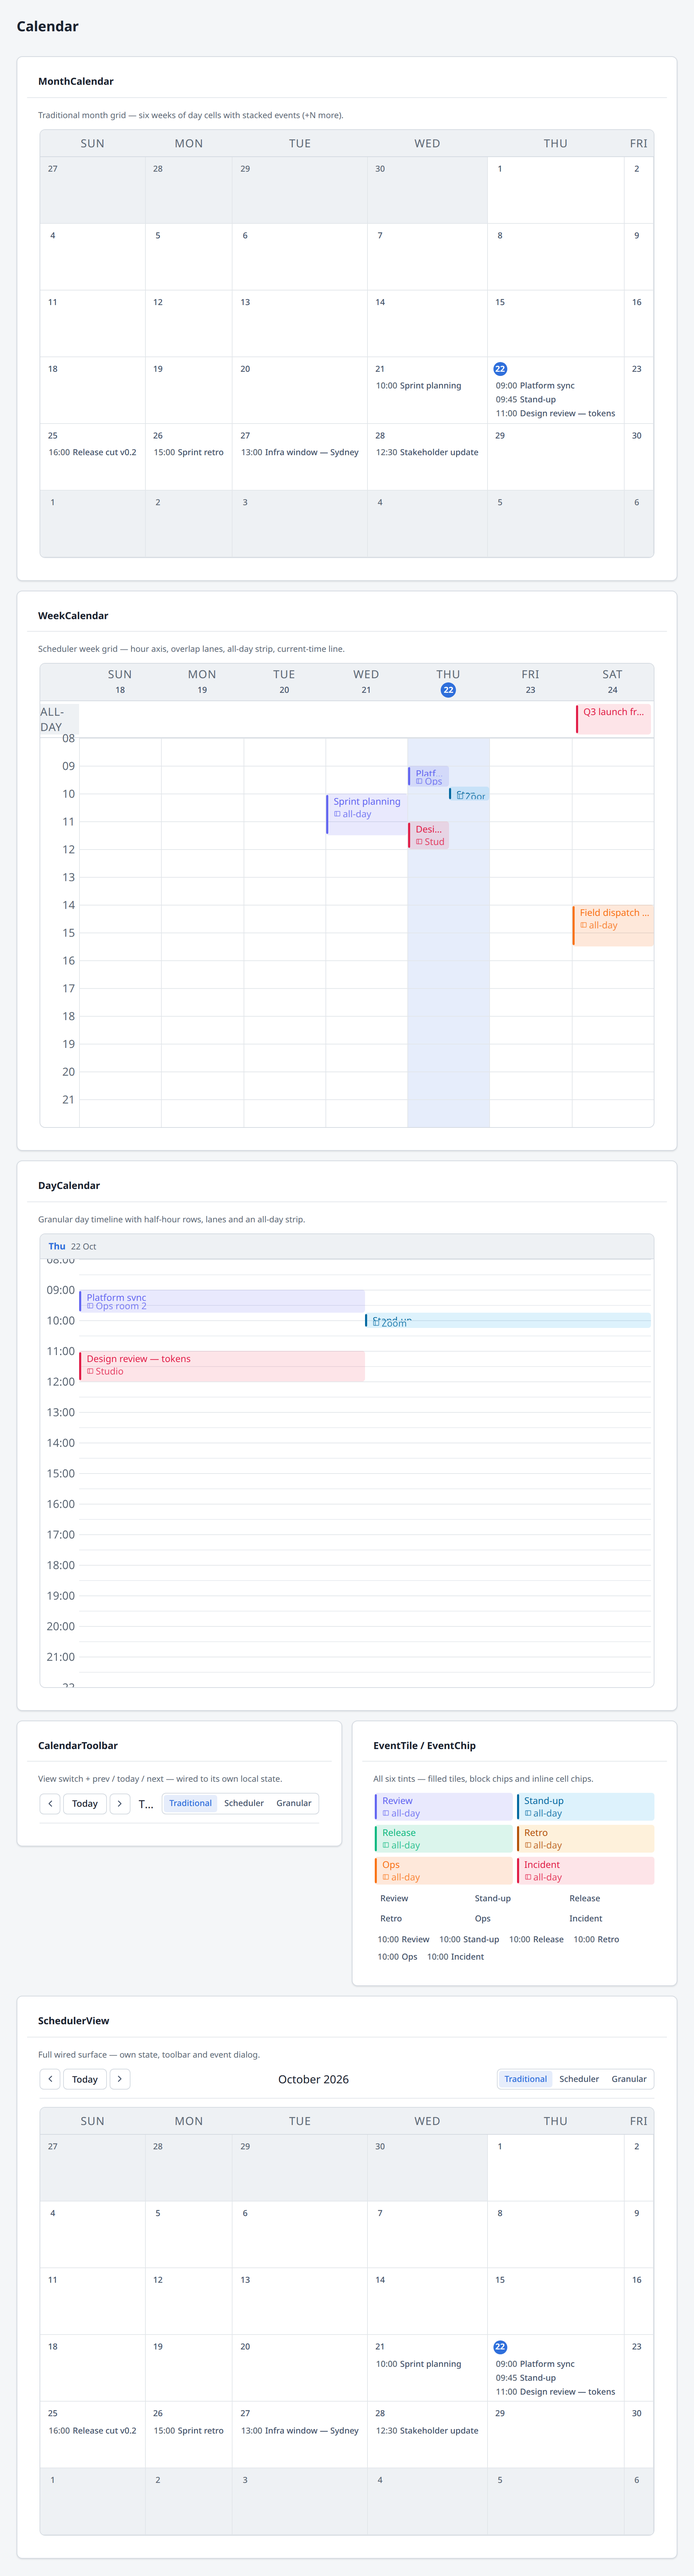
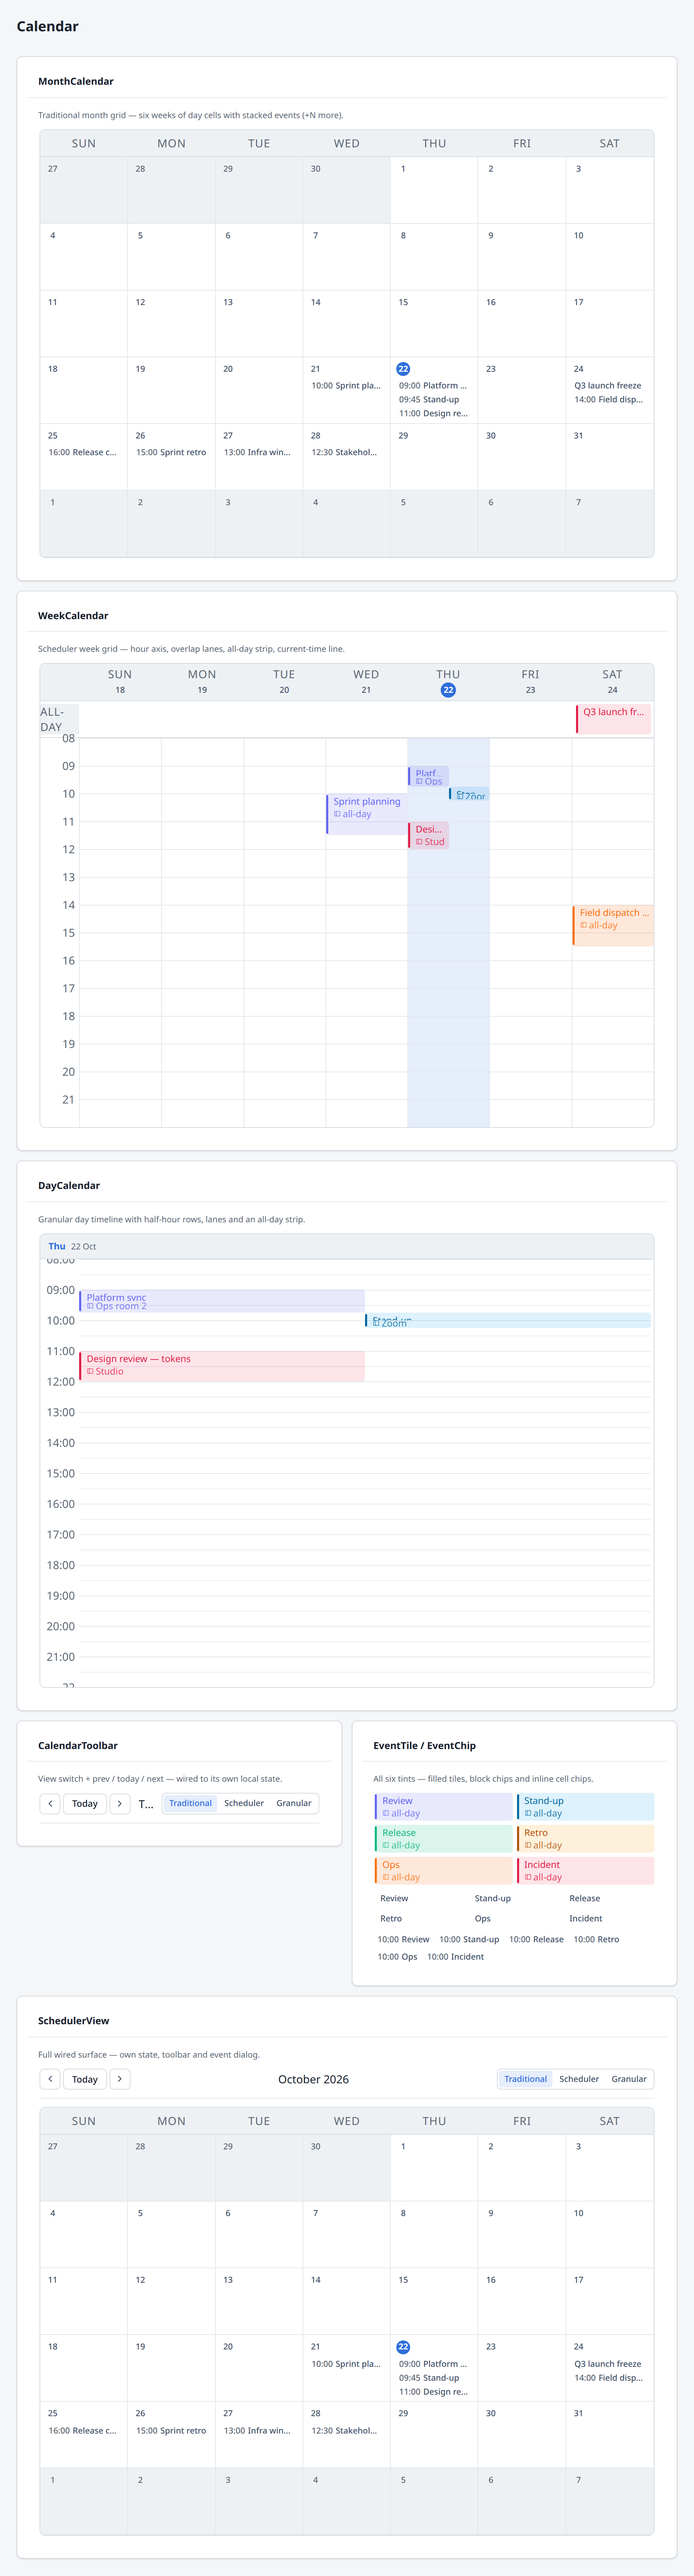
fix(calendar): month grid no longer overflows — day cells shrink, chip/tile titles ellipsize with hover tooltips

diff --git a/src/calendar/EventChip.vue b/src/calendar/EventChip.vue
@@ -15,7 +15,7 @@ const emit = defineEmits<{ open: [] }>();
 </script>
 
 <template>
-  <button class="event-chip" :class="`is-${layout}`" type="button" @click.stop="emit('open')">
+  <button class="event-chip" :class="`is-${layout}`" type="button" :title="event.title" @click.stop="emit('open')">
     <span class="event-chip__time" v-if="layout === 'cell' && !event.allDay && fmtTime(event.start).substring(0, 5)">
       {{ fmtTime(event.start) }}
     </span>
@@ -53,6 +53,7 @@ const emit = defineEmits<{ open: [] }>();
   font-variant-numeric: tabular-nums;
 }
 .event-chip__title {
+  min-width: 0; /* shrink with the cell so ellipsis engages instead of raw clip */
   overflow: hidden;
   text-overflow: ellipsis;
   white-space: nowrap;

diff --git a/src/calendar/MonthCalendar.vue b/src/calendar/MonthCalendar.vue
@@ -98,7 +98,9 @@ function toggle(d: Date): void {
   border-bottom: 1px solid var(--line);
 }
 .month-cal__day {
+  min-width: 0; /* 1fr tracks must shrink below nowrap chip content or the last columns get pushed out */
   min-height: 96px;
+  overflow: hidden;
   padding: var(--space-1) var(--space-2);
   border-right: 1px solid var(--divider);
   border-bottom: 1px solid var(--divider);
@@ -134,6 +136,8 @@ function toggle(d: Date): void {
   display: flex;
   flex-direction: column;
   gap: 1px;
+  overflow: hidden;
+  min-width: 0;
 }
 .month-cal__more {
   align-self: flex-start;

diff --git a/src/calendar/EventTile.vue b/src/calendar/EventTile.vue
@@ -18,7 +18,7 @@ function tintOf(e: CalendarEvent) {
 </script>
 
 <template>
-  <button class="event-tile" type="button" :style="{ background: tintOf(event).bg, color: tintOf(event).text }" @click.stop="emit('open')">
+  <button class="event-tile" type="button" :title="event.title" :style="{ background: tintOf(event).bg, color: tintOf(event).text }" @click.stop="emit('open')">
     <span class="event-tile__bar" :style="{ background: tintOf(event).text }" aria-hidden="true" />
     <span class="event-tile__body">
       <span class="event-tile__title">{{ event.title }}</span>
